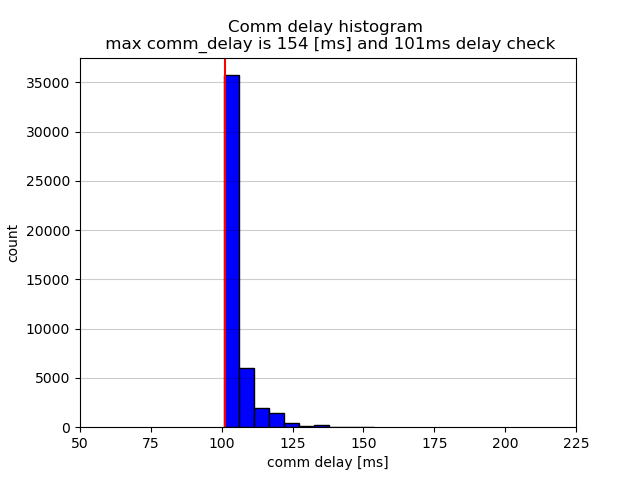
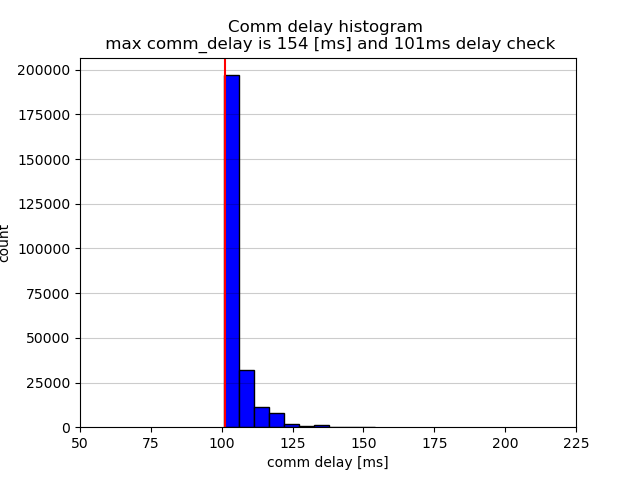
minor

diff --git a/mader/other/sim/missed_msgs_count.py b/mader/other/sim/missed_msgs_count.py
@@ -41,29 +41,25 @@ if __name__ == '__main__':
         is_oldmader=True
 
         if cd == 50:
-            dc_list = [0, 190, 73, 57, 51] #dc_list[0] will be used for old mader (which doesn't need delay check) so enter some value (default 0)
+            dc_list = [0, 120, 60, 51.3, 51] #dc_list[0] will be used for old mader (which doesn't need delay check) so enter some value (default 0)
             # dc_list = [0, 160] #dc_list[0] will be used for old mader (which doesn't need delay check) so enter some value (default 0)
         elif cd == 100:
-            dc_list = [0, 210, 120, 107, 101] #dc_list[0] will be used for old mader (which doesn't need delay check) so enter some value (default 0)
+            dc_list = [0, 170, 105, 101.3, 101] #dc_list[0] will be used for old mader (which doesn't need delay check) so enter some value (default 0)
             # dc_list = [0, 210] #dc_list[0] will be used for old mader (which doesn't need delay check) so enter some value (default 0)
         elif cd == 200:
-            dc_list = [0, 300]
+            dc_list = [0, 250]
         elif cd == 300:
-            dc_list = [0, 400]
+            dc_list = [0, 360]
 
         for dc in dc_list:
 
             dc_in_ms = dc/1000;
             cd_in_ms = cd/1000;
 
-            if dc == 50.5:
-                str_dc = "50_5"
-            elif dc == 50.1:
-                str_dc = "50_1"
-            elif dc == 100.5:
-                str_dc = "100_5"
-            elif dc == 100.1:
-                str_dc = "100_1"
+            if dc == 51.3:
+                str_dc = "51_3"
+            elif dc == 101.3:
+                str_dc = "101_3"
             else:
                 str_dc = str(dc)
 
@@ -119,9 +115,11 @@ if __name__ == '__main__':
             ave_missed_per_dc = sum(missed_msgs_list)/len(missed_msgs_list)
             ave_per_dc = sum(msgs_list)/len(msgs_list)
             # print(ave_per_dc)
-            os.system('echo "'+source_dir+': msgs_cnt '+str(round(ave_per_dc,2))+'" >> /home/kota/data/missed_msgs_cnt.txt')
-            os.system('echo "'+source_dir+': missed_msgs_cnt '+str(round(ave_missed_per_dc,2))+'" >> /home/kota/data/missed_msgs_cnt.txt')
-            os.system('echo "'+source_dir+': missed/total '+str(round(ave_missed_per_dc/ave_per_dc,2))+'" >> /home/kota/data/missed_msgs_cnt.txt')
-            os.system('echo "" >> /home/kota/data/missed_msgs_cnt.txt')
+
+            os.system('echo "'+source_dir+'" >> /home/kota/data/missed_msgs_cnt.txt')
+            os.system('echo " msgs_cnt '+str(round(ave_per_dc,2))+'" >> /home/kota/data/missed_msgs_cnt.txt')
+            os.system('echo " missed_msgs_cnt '+str(round(ave_missed_per_dc,2))+'" >> /home/kota/data/missed_msgs_cnt.txt')
+            os.system('echo " missed/total '+str(round(ave_missed_per_dc/ave_per_dc*100,2))+'%" >> /home/kota/data/missed_msgs_cnt.txt')
+            os.system('echo "------------------------------------------------------------" >> /home/kota/data/missed_msgs_cnt.txt')
             
             is_oldmader = False

diff --git a/mader/other/sim/comm_delay_histogram_percentile.py b/mader/other/sim/comm_delay_histogram_percentile.py
@@ -30,7 +30,7 @@ if __name__ == '__main__':
     # you wanna get histogram or know the value at q-th percentile
     is_histogram = True
     # q-th percentile
-    q = 75
+    q = 100
 
     is_oldmader = True # always False bc oldmader doesn't have comm_delay
     num_of_agents = 10
@@ -45,29 +45,25 @@ if __name__ == '__main__':
         is_oldmader=True
 
         if cd == 50:
-            dc_list = [0, 190, 73, 57, 51] #dc_list[0] will be used for old mader (which doesn't need delay check) so enter some value (default 0)
+            dc_list = [0, 120, 60, 51.3, 51] #dc_list[0] will be used for old mader (which doesn't need delay check) so enter some value (default 0)
             # dc_list = [0, 160] #dc_list[0] will be used for old mader (which doesn't need delay check) so enter some value (default 0)
         elif cd == 100:
-            dc_list = [0, 210, 120, 107, 101] #dc_list[0] will be used for old mader (which doesn't need delay check) so enter some value (default 0)
+            dc_list = [0, 170, 105, 101.3, 101] #dc_list[0] will be used for old mader (which doesn't need delay check) so enter some value (default 0)
             # dc_list = [0, 210] #dc_list[0] will be used for old mader (which doesn't need delay check) so enter some value (default 0)
         elif cd == 200:
-            dc_list = [0, 300]
+            dc_list = [0, 250]
         elif cd == 300:
-            dc_list = [0, 400]
+            dc_list = [0, 360]
             
         for dc in dc_list:
             
             # comm_delay you use
             input_comm_delay = dc/1000
 
-            if dc == 50.5:
-                str_dc = "50_5"
-            elif dc == 50.1:
-                str_dc = "50_1"
-            elif dc == 100.5:
-                str_dc = "100_5"
-            elif dc == 100.1:
-                str_dc = "100_1"
+            if dc == 51.3:
+                str_dc = "51_3"
+            elif dc == 101.3:
+                str_dc = "101_3"
             else:
                 str_dc = str(dc)
 
@@ -90,8 +86,8 @@ if __name__ == '__main__':
 
             # print(rosbag)
 
-            # for i in range(len(rosbag)):
-            for i in range(10):
+            for i in range(len(rosbag)):
+            # for i in range(10):
 
                 b = bagreader(rosbag[i], verbose=False);
                 
@@ -131,9 +127,6 @@ if __name__ == '__main__':
                 # plt.show()
             else:
                 # in case you wanna calculate the value of q-th percentile
-                print(source_bags)
-                print(str(q) + "-th percentile value is " + str(numpy.percentile(comm_delay_arr, q)))
-                if q > 0:
-                    q = q -25
-                else:
-                    sys.exit()
+                for q in range(100,0,-25):
+                    print(source_bags)
+                    print(str(q) + "-th percentile value is " + str(numpy.percentile(comm_delay_arr, q)))

diff --git a/mader/other/sim/completion_time.py b/mader/other/sim/completion_time.py
@@ -36,29 +36,25 @@ if __name__ == '__main__':
         is_oldmader=True
 
         if cd == 50:
-            dc_list = [0, 190, 73, 57, 51] #dc_list[0] will be used for old mader (which doesn't need delay check) so enter some value (default 0)
+            dc_list = [0, 120, 60, 51.3, 51] #dc_list[0] will be used for old mader (which doesn't need delay check) so enter some value (default 0)
             # dc_list = [0, 160] #dc_list[0] will be used for old mader (which doesn't need delay check) so enter some value (default 0)
         elif cd == 100:
-            dc_list = [0, 210, 120, 107, 101] #dc_list[0] will be used for old mader (which doesn't need delay check) so enter some value (default 0)
+            dc_list = [0, 170, 105, 101.3, 101] #dc_list[0] will be used for old mader (which doesn't need delay check) so enter some value (default 0)
             # dc_list = [0, 210] #dc_list[0] will be used for old mader (which doesn't need delay check) so enter some value (default 0)
         elif cd == 200:
-            dc_list = [0, 300]
+            dc_list = [0, 250]
         elif cd == 300:
-            dc_list = [0, 400]
+            dc_list = [0, 360]
 
         # this gives you 2d array, row gives you each sims data in corresponding dc
         box_plot_list = [] 
 
         for dc in dc_list:
 
-            if dc == 50.5:
-                str_dc = "50_5"
-            elif dc == 50.1:
-                str_dc = "50_1"
-            elif dc == 100.5:
-                str_dc = "100_5"
-            elif dc == 100.1:
-                str_dc = "100_1"
+            if dc == 51.3:
+                str_dc = "51_3"
+            elif dc == 101.3:
+                str_dc = "101_3"
             else:
                 str_dc = str(dc)
 
@@ -97,9 +93,11 @@ if __name__ == '__main__':
                     # print('completion time ' + str(completion_time_agent))
                     completion_time_per_sim_list.append(completion_time)
                     box_plot_list.append(completion_time_per_sim_list)
-                    os.system('echo "'+source_dir+' : max is '+str(max(completion_time_per_sim_list))+'" >> '+home_dir+'/completion_time.txt')
-                    os.system('echo "'+source_dir+' : ave is '+str(statistics.mean(completion_time_per_sim_list))+'" >> '+home_dir+'/completion_time.txt')
-        
+                    os.system('echo "'+source_dir+'" >> /home/kota/data/completion_time.txt')
+                    os.system('echo "max is '+str(round(max(completion_time_per_sim_list),2))+'s" >> /home/kota/data/completion_time.txt')
+                    os.system('echo "ave is '+str(round(statistics.mean(completion_time_per_sim_list),2))+'s" >> /home/kota/data/completion_time.txt')
+                    os.system('echo "------------------------------------------------------------" >> /home/kota/data/completion_time.txt')
+
                 except:
                     print("agents didn't reach goals")
 

diff --git a/mader/other/sim/collision_check.py b/mader/other/sim/collision_check.py
@@ -37,28 +37,24 @@ if __name__ == '__main__':
         is_oldmader=True
 
         if cd == 50:
-            dc_list = [0, 190, 73, 57, 51] #dc_list[0] will be used for old mader (which doesn't need delay check) so enter some value (default 0)
+            dc_list = [0, 120, 60, 51.3, 51] #dc_list[0] will be used for old mader (which doesn't need delay check) so enter some value (default 0)
             # dc_list = [0, 160] #dc_list[0] will be used for old mader (which doesn't need delay check) so enter some value (default 0)
         elif cd == 100:
-            dc_list = [0, 210, 120, 107, 101] #dc_list[0] will be used for old mader (which doesn't need delay check) so enter some value (default 0)
+            dc_list = [0, 170, 105, 101.3, 101] #dc_list[0] will be used for old mader (which doesn't need delay check) so enter some value (default 0)
             # dc_list = [0, 210] #dc_list[0] will be used for old mader (which doesn't need delay check) so enter some value (default 0)
         elif cd == 200:
-            dc_list = [0, 300]
+            dc_list = [0, 250]
         elif cd == 300:
-            dc_list = [0, 400]
+            dc_list = [0, 360]
 
         for dc in dc_list:
 
             collision_cnt = 0
 
-            if dc == 50.5:
-                str_dc = "50_5"
-            elif dc == 50.1:
-                str_dc = "50_1"
-            elif dc == 100.5:
-                str_dc = "100_5"
-            elif dc == 100.1:
-                str_dc = "100_1"
+            if dc == 51.3:
+                str_dc = "51_3"
+            elif dc == 101.3:
+                str_dc = "101_3"
             else:
                 str_dc = str(dc)
 
@@ -95,6 +91,8 @@ if __name__ == '__main__':
 
             collision_per = collision_cnt / len(rosbag) * 100
             os.system('paste '+source_dir+'/collision_status.txt '+source_dir+'/status.txt >> '+source_dir+'/complete_status.txt')
-            os.system('echo "'+source_dir+': '+str(collision_cnt)+'/'+str(len(rosbag))+' - '+str(collision_per)+'%" >> /home/kota/data/collision_count.txt')
+            os.system('echo "'+source_dir+'" >> /home/kota/data/collision_count.txt')
+            os.system('echo "'+str(collision_cnt)+'/'+str(len(rosbag))+' - '+str(round(collision_per,2))+'%" >> /home/kota/data/collision_count.txt')
+            os.system('echo "------------------------------------------------------------" >> /home/kota/data/collision_count.txt')
 
             is_oldmader = False

diff --git a/mader/other/sim/ave_distance_csv2txt.py b/mader/other/sim/ave_distance_csv2txt.py
@@ -38,29 +38,25 @@ if __name__ == '__main__':
         is_oldmader=True
 
         if cd == 50:
-            dc_list = [0, 190, 73, 57, 51] #dc_list[0] will be used for old mader (which doesn't need delay check) so enter some value (default 0)
+            dc_list = [0, 120, 60, 51.3, 51] #dc_list[0] will be used for old mader (which doesn't need delay check) so enter some value (default 0)
             # dc_list = [0, 160] #dc_list[0] will be used for old mader (which doesn't need delay check) so enter some value (default 0)
         elif cd == 100:
-            dc_list = [0, 210, 120, 107, 101] #dc_list[0] will be used for old mader (which doesn't need delay check) so enter some value (default 0)
+            dc_list = [0, 170, 105, 101.3, 101] #dc_list[0] will be used for old mader (which doesn't need delay check) so enter some value (default 0)
             # dc_list = [0, 210] #dc_list[0] will be used for old mader (which doesn't need delay check) so enter some value (default 0)
         elif cd == 200:
-            dc_list = [0, 300]
+            dc_list = [0, 250]
         elif cd == 300:
-            dc_list = [0, 400]
+            dc_list = [0, 360]
 
         for dc in dc_list:
 
             dc_in_ms = dc/1000;
             cd_in_ms = cd/1000;
 
-            if dc == 50.5:
-                str_dc = "50_5"
-            elif dc == 50.1:
-                str_dc = "50_1"
-            elif dc == 100.5:
-                str_dc = "100_5"
-            elif dc == 100.1:
-                str_dc = "100_1"
+            if dc == 51.3:
+                str_dc = "51_3"
+            elif dc == 101.3:
+                str_dc = "101_3"
             else:
                 str_dc = str(dc)
 
@@ -124,6 +120,7 @@ if __name__ == '__main__':
                 # os.system('echo "SQ'+sim_id+' '+str(ave_per_dc[i])+'" >> /home/kota/data/ave_distance.txt')
 
             total_ave_dist = sum(ave_per_dc)/len(ave_per_dc)
-            os.system('echo "total distance '+str(total_ave_dist)+'" >> /home/kota/data/ave_distance.txt')
+            os.system('echo "total distance '+str(round(total_ave_dist,2))+'m" >> /home/kota/data/ave_distance.txt')
+            os.system('echo "------------------------------------------------------------" >> /home/kota/data/ave_distance.txt')
 
             is_oldmader = False

diff --git a/mader/scripts/run_many_sims_multi_agent.py b/mader/scripts/run_many_sims_multi_agent.py
@@ -39,7 +39,7 @@ if __name__ == '__main__':
 
     # parameters
     is_oldmader=True
-    num_of_sims=60
+    num_of_sims=55
     num_of_agents=10
     how_long_to_wait = 30 #[s]
     if is_oldmader:
@@ -56,29 +56,25 @@ if __name__ == '__main__':
         is_oldmader=True
 
         if cd == 50:
-            dc_list = [0, 190, 73, 57, 51] #dc_list[0] will be used for old mader (which doesn't need delay check) so enter some value (default 0)
+            dc_list = [0, 120, 60, 51.3, 51] #dc_list[0] will be used for old mader (which doesn't need delay check) so enter some value (default 0)
             # dc_list = [0, 160] #dc_list[0] will be used for old mader (which doesn't need delay check) so enter some value (default 0)
         elif cd == 100:
-            dc_list = [0, 210, 120, 107, 101] #dc_list[0] will be used for old mader (which doesn't need delay check) so enter some value (default 0)
+            dc_list = [0, 170, 105, 101.3, 101] #dc_list[0] will be used for old mader (which doesn't need delay check) so enter some value (default 0)
             # dc_list = [0, 210] #dc_list[0] will be used for old mader (which doesn't need delay check) so enter some value (default 0)
         elif cd == 200:
-            dc_list = [0, 300]
+            dc_list = [0, 250]
         elif cd == 300:
-            dc_list = [0, 400]
+            dc_list = [0, 360]
 
         for dc in dc_list:
 
             dc_in_ms = dc/1000;
             cd_in_ms = cd/1000;
 
-            if dc == 50.5:
-                str_dc = "50_5"
-            elif dc == 50.1:
-                str_dc = "50_1"
-            elif dc == 100.5:
-                str_dc = "100_5"
-            elif dc == 100.1:
-                str_dc = "100_1"
+            if dc == 51.3:
+                str_dc = "51_3"
+            elif dc == 101.3:
+                str_dc = "101_3"
             else:
                 str_dc = str(dc)
 

diff --git a/mader/scripts/collision_detector.py b/mader/scripts/collision_detector.py
@@ -38,9 +38,9 @@ class CollisionDetector:
         self.tol = 0.01 #[m] 
 
         # bbox size
-        self.bbox_x = rospy.get_param('~bbox_x', 0.25) - self.tol #default value is 0.15
-        self.bbox_y = rospy.get_param('~bbox_y', 0.25) - self.tol #default value is 0.15
-        self.bbox_z = rospy.get_param('~bbox_z', 0.25) - self.tol #default value is 0.15
+        self.bbox_x = rospy.get_param('~bbox_x', 0.5) - self.tol #default value is 0.15
+        self.bbox_y = rospy.get_param('~bbox_y', 0.5) - self.tol #default value is 0.15
+        self.bbox_z = rospy.get_param('~bbox_z', 0.5) - self.tol #default value is 0.15
         self.num_of_agents = rospy.get_param('~num_of_agents')
 
         self.initialized = False

diff --git a/mader/scripts/ave_distance.py b/mader/scripts/ave_distance.py
@@ -174,7 +174,7 @@ def startNode():
     rospy.Subscriber("SQ10s/state", State, c.SQ10stateCB)
     rospy.Subscriber("SQ01s/state", State, c.SQ01stateCB)
 
-    rospy.Timer(rospy.Duration(0.01), c.AveDistanceCalculate)
+    rospy.Timer(rospy.Duration(0.1), c.AveDistanceCalculate)
     rospy.spin()
 
 if __name__ == '__main__':
